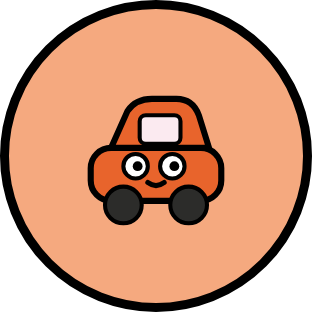
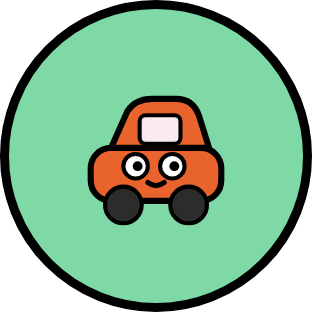
Give the welcome mascot a green background
Swapped the mascot's peach circle for a green one (#7ED9A6) to tie
the artwork back to the GreenLight name. Regenerated the PNG via the
existing generator script rather than hand-editing the asset.

diff --git a/scripts/generate-welcome-mascot.js b/scripts/generate-welcome-mascot.js
@@ -1,6 +1,6 @@
 /**
  * Generates the car mascot icon shown on the Welcome to GreenLight screen,
- * as a transparent-background PNG (the peach circle + black outline are
+ * as a transparent-background PNG (the green circle + black outline are
  * baked into the artwork; the app wraps it in its own tactileShadow).
  *
  * Rendered at 3x (312x312 for a 104x104 display size) for retina clarity,
@@ -33,7 +33,7 @@ const html = `<!DOCTYPE html>
     width: ${SIZE}px;
     height: ${SIZE}px;
     border-radius: 50%;
-    background: #F5A97F;
+    background: #7ED9A6;
     border: ${3 * SCALE}px solid #000;
     display: flex;
     align-items: center;
